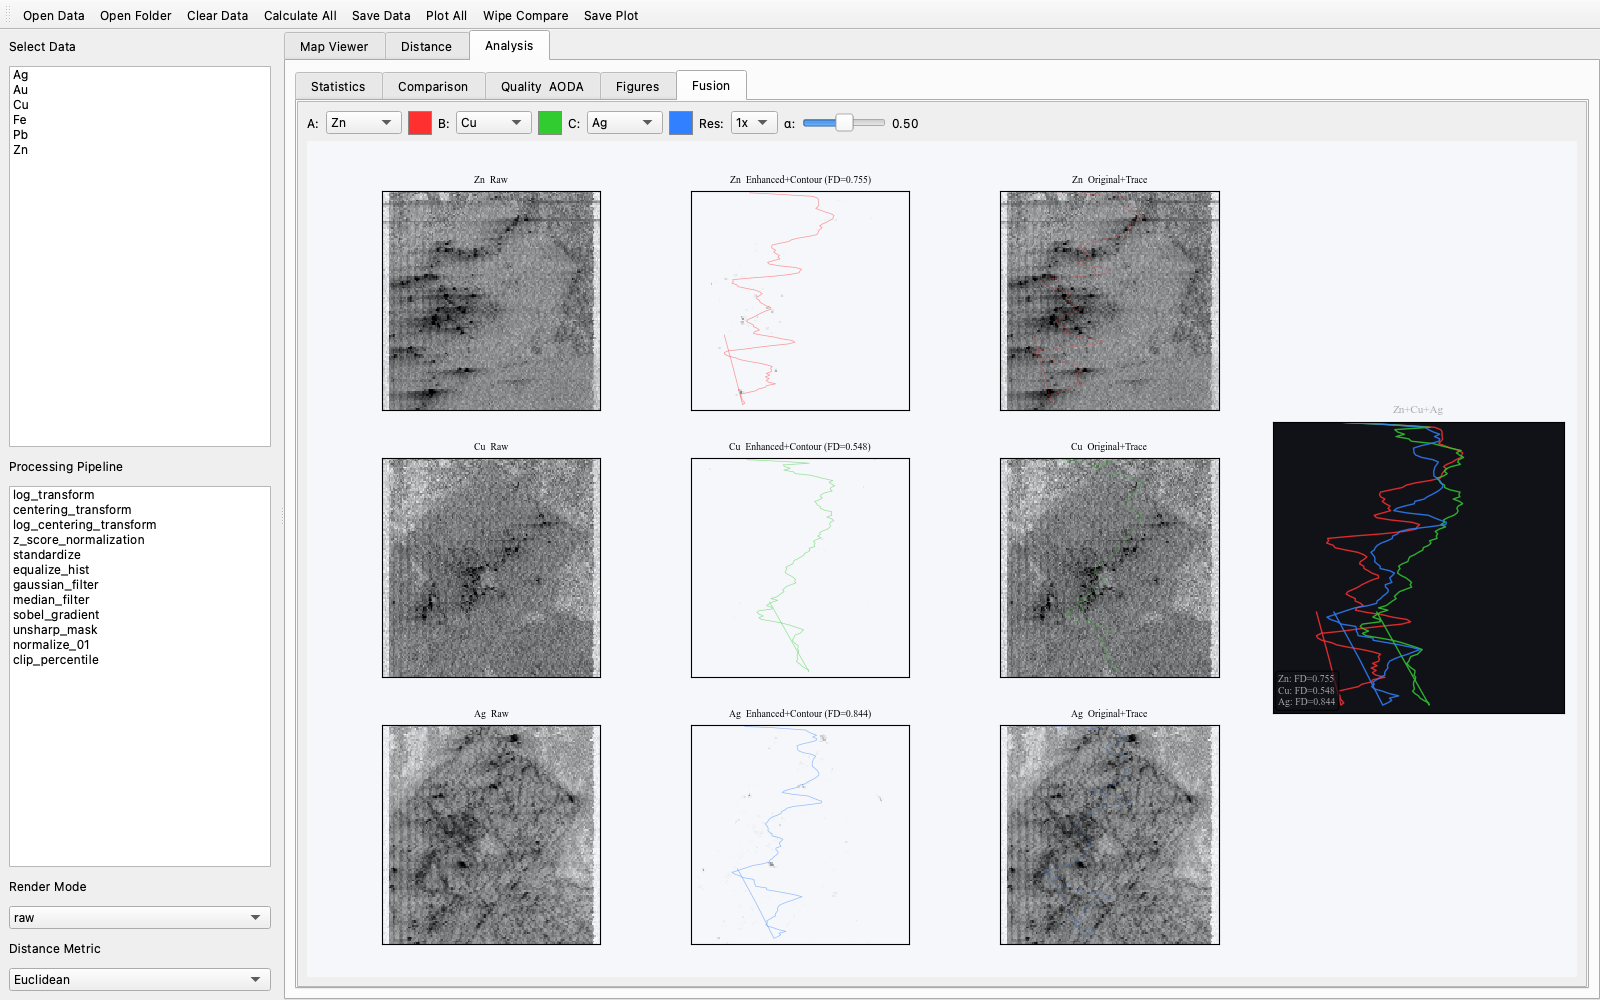
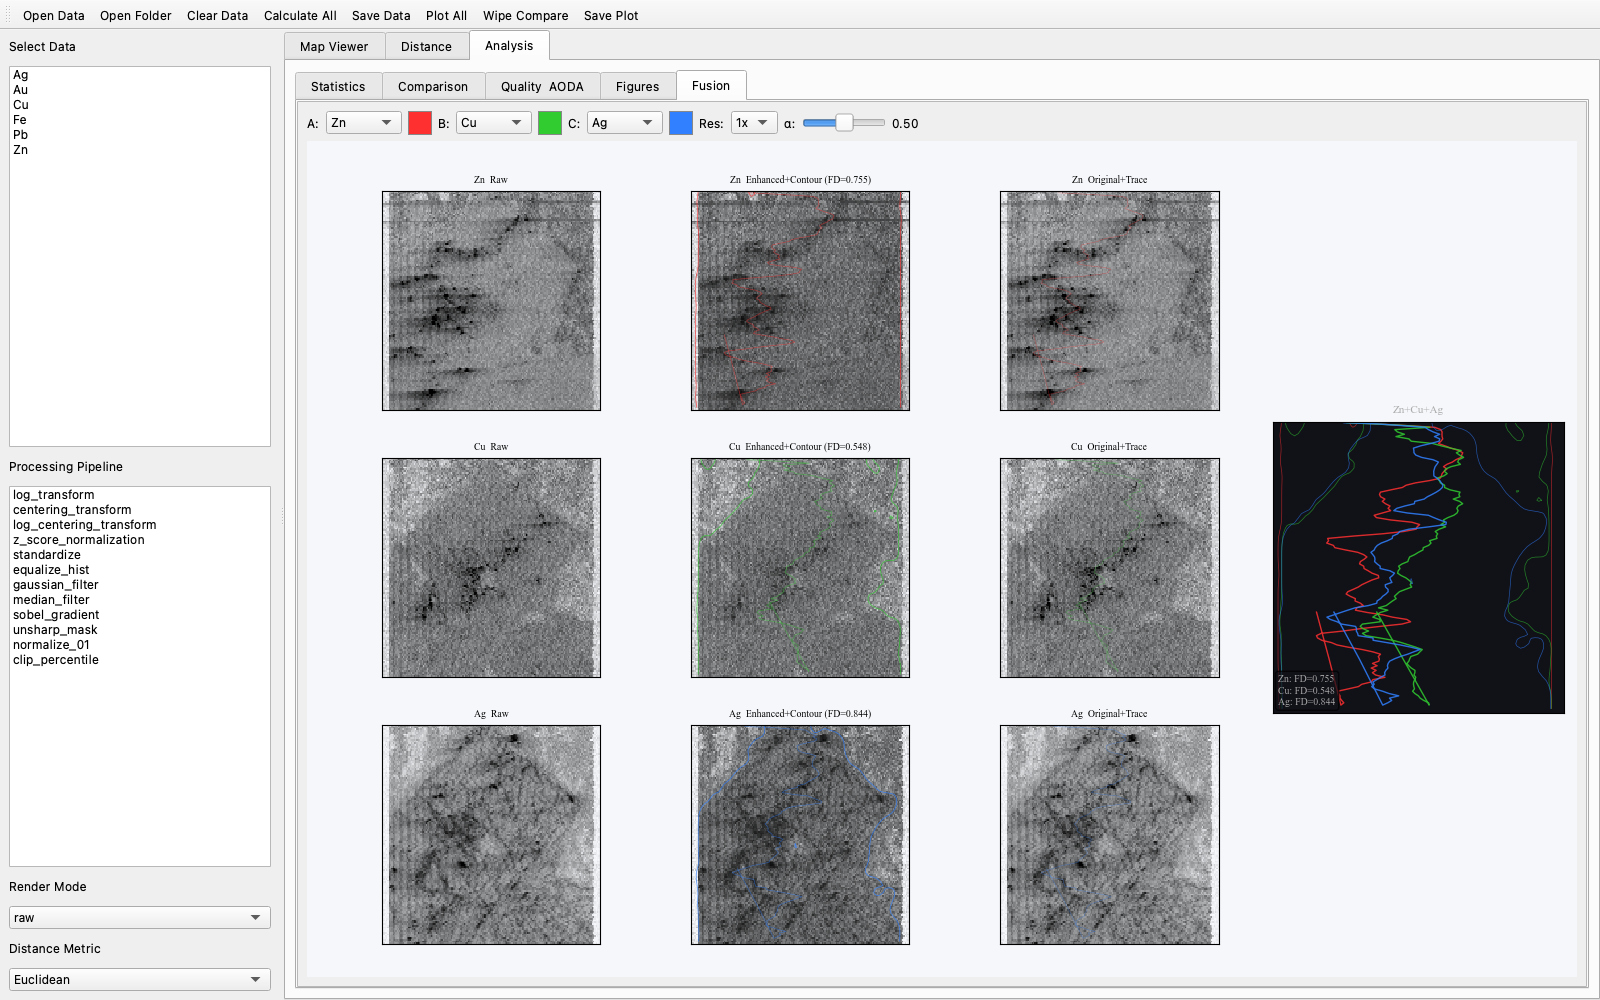
v1.7.0: Fusion mid column = log-scaled max-contrast raw data + contour + trace overlay
- log1p transform spreads full value range evenly for max discrimination
- Otsu contours + trajectory drawn on top of enhanced visual data
- Cleanly achieves the paper's visual+numerical fusion goal

Changed region(s): [[0.4062, 0.186, 0.5938, 0.682], [0.4375, 0.713, 0.5625, 0.961], [0.9375, 0.62, 0.9688, 0.651]]

diff --git a/cpsvisualizer/src/cpsvisualizer/app.py b/cpsvisualizer/src/cpsvisualizer/app.py
@@ -763,16 +763,13 @@ class CPSVisualizer(QMainWindow):
                 else: break
             data = self.df_list[self.df_name_list.index(nm)].to_numpy().copy()
             raw = np.nan_to_num(data.astype(float), nan=0, posinf=0, neginf=0)
+            # middle column: max-contrast visual data + computed overlays
+            # log1p + percentile window spreads full value range evenly,
+            # then contours and trace are drawn on top
+            from cpsvisualizer.core import log_transform
+            V = log_transform(raw)
+            # keep raw01 for otsu contour extraction (needs original shape)
             raw01 = (raw - raw.min()) / (raw.max() - raw.min() + 1e-10)
-            # middle column: multiplicative visual-statistical fusion
-            # F = V^alpha * S^(1-alpha) — pixel only prominent if both
-            # visual AND statistical channels score high
-            from cpsvisualizer.fusion import robust_zscore
-            zs = robust_zscore(raw)
-            zs01 = (zs - zs.min()) / (zs.max() - zs.min() + 1e-10)
-            eps = 1e-10
-            al = self._fus_alpha.value() / 100.0
-            V = (np.maximum(raw01, eps) ** al) * (np.maximum(zs01, eps) ** (1 - al))
             # Otsu contours on downsampled V, then convert to V-space coords
             from skimage.filters import threshold_otsu
             from skimage.measure import find_contours

diff --git a/cpsvisualizer/src/setup.py b/cpsvisualizer/src/setup.py
@@ -15,7 +15,7 @@ except Exception:
 
 setup(
     name='cpsvisualizer',
-    version='1.6.9',
+    version='1.7.0',
     description='CPS-Visualizer: Visualization, similarity measurement, and statistical analysis of LA-ICP-MS surface scan data.',
     long_description=README,
     long_description_content_type='text/markdown',
